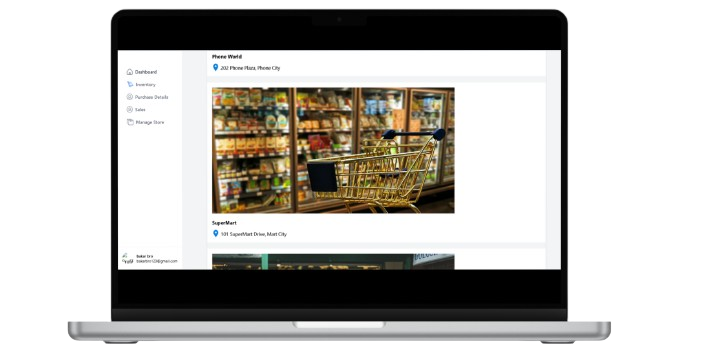
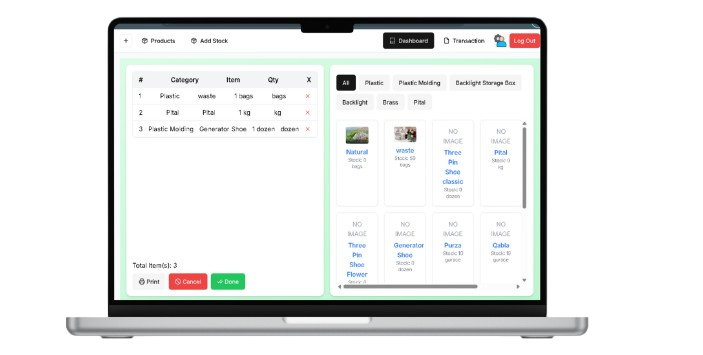
ok now

diff --git a/src/Components/ProjectBox.js b/src/Components/ProjectBox.js
@@ -1,9 +1,8 @@
 import React from 'react';
-import {FaGithub} from "react-icons/fa";
-import {CgFileDocument} from "react-icons/cg";
+import { FaGithub } from "react-icons/fa";
+import { CgFileDocument } from "react-icons/cg";
 
-
-const  ProjectBox = ({projectPhoto, projectName}) => {
+const ProjectBox = ({ projectPhoto, projectName }) => {
   const desc = {
     InventoryDesc: "A MERN-based inventory management system with JWT authentication. Features efficient product management and seamless deployment, hosted on Netlify for easiness.",
     InventoryGithub: "https://github.com/im-abubakar/Inventory-management-system",
@@ -13,36 +12,56 @@ const  ProjectBox = ({projectPhoto, projectName}) => {
     EzPartyGithub: "",
     EzPartyWebsite: "https://oneezparty.com/",
 
-    OneupDesc: "An AI-powered platform offering customized investment solutions. Ensures control, and smarter financial management for users seeking seamless, tailored investment opportunities.",
+    OneupDesc: "An AI-powered platform offering customized investment solutions. Ensures control, and smarter financial management for users seeking seamless investment opportunities.",
     OneupGithub: "",
     OneupWebsite: "https://oneuppp.netlify.app",
+
+    DigitalKhataDesc: "A React-based digital ledger with a Supabase backend, built for a local client to manage customer entries, item weights, costs, and balances — tailored for the Dhalai brass business.",
+    DigitalKhataGithub: "",
+    DigitalKhataWebsite: "https://khataa-appp.netlify.app",
+
+    PointOfSaleDesc: "A Next.js POS system with MongoDB backend for a local Dhalai brass business. Handles product entry, cost with labor, sales tracking, and inventory all in a smooth, responsive interface.",
+    PointOfSaleGithub: "",
+    PointOfSaleWebsite: "https://inventory-dhalai-update-jqeb.vercel.app",
+
+    ARFurnitureWebAppDesc: "A Next.js based AR web app for visualizing 3D furniture in real-world spaces. Built for interior design shopping with user login and immersive product previews.",
+    ARFurnitureWebAppGithub: "",
+    ARFurnitureWebAppWebsite: "https://ar-decoration-app.vercel.app",
+
+    EcommerceStoreDesc: "A full-stack eCommerce platform with Next.js frontend & Express.js backend. Includes product browsing, cart management, & checkout. Built scalability and smooth experience.",
+    EcommerceStoreGithub: "",
+    EcommerceStoreWebsite: "https://www.sastamal.store",
+
+    AnonymousMessageSenderDesc: "A simple web app that allows users to send anonymous text messages directly to an email inbox. No login required just type and send securely.",
+    AnonymousMessageSenderGithub: "",
+    AnonymousMessageSenderWebsite: "https://say-it-secretly.netlify.app/?fbclid=PAZXh0bgNhZW0CMTEAAaf3ko8tgBbOuKnYDs0u-KA1iiAfpiJziyLT1EbCvJ8pTt0odU9W2T9ikQX_RQ_aem_gqtkG7OFqrKx2lvtBNIt6Q",
   };
 
-  let show ='';
-  if(desc[projectName + 'Github']===""){
-    show="none";
-  }
-    
+  // Normalize project name by removing spaces
+  const keyPrefix = projectName.replace(/\s+/g, '');
+
+  const show = desc[keyPrefix + 'Github'] === "" ? "none" : "";
+
   return (
-    <div className='projectBox'> 
-        <img className='projectPhoto' src={projectPhoto} alt="Project display" /> 
-        <div>
-            <br />
-            <h3>{projectName}</h3>
-            <br />
-            {desc[projectName + 'Desc']}
-            <br />
+    <div className='projectBox'>
+      <img className='projectPhoto' src={projectPhoto} alt="Project display" />
+      <div>
+        <br />
+        <h3>{projectName}</h3>
+        <br />
+        {desc[keyPrefix + 'Desc']}
+        <br />
 
-            <a style={{display:show}} href={desc[projectName + 'Github']}>
-              <button className='projectbtn'><FaGithub/> Github</button>
-            </a>
+        <a style={{ display: show }} href={desc[keyPrefix + 'Github']}>
+          <button className='projectbtn'><FaGithub /> Github</button>
+        </a>
 
-            <a href={desc[projectName + 'Website']}>
-              <button className='projectbtn'><CgFileDocument/> Demo</button>
-            </a>
-        </div>
+        <a href={desc[keyPrefix + 'Website']}>
+          <button className='projectbtn'><CgFileDocument /> Demo</button>
+        </a>
+      </div>
     </div>
-  )
-}
+  );
+};
 
-export default  ProjectBox
+export default ProjectBox;

diff --git a/src/Components/Projects.js b/src/Components/Projects.js
@@ -2,8 +2,10 @@ import React from 'react';
 import ProjectBox from './ProjectBox';
 import OneezPartyImage from '../images/OneezPartyImage.png';
 import OneupImage from '../images/Oneup.png' 
-// import RogfreeImage from '../images/RogfreeImage.png';
-// import TindogImage from '../images/TindogImage.png';
+import FypImage from '../images/Fyp.png';
+import KhataImage from '../images/Khata_app.png';
+import ecommerceImage from '../images/ecommerce.png';
+import annonymousImage from '../images/annonymous.png';
 import InventoryImage from '../images/inventory.png';
 
 const Projects = () => {
@@ -11,11 +13,14 @@ const Projects = () => {
     <div>
       <h1 className='projectHeading'>My <b>Projects</b></h1>
       <div className='project'>
-        <ProjectBox projectPhoto={InventoryImage} projectName="Inventory" />
+        <ProjectBox projectPhoto={InventoryImage} projectName="Point Of Sale" />
         <ProjectBox projectPhoto={OneezPartyImage} projectName="EzParty" />
         <ProjectBox projectPhoto={OneupImage} projectName="Oneup" />
-        {/* <ProjectBox projectPhoto={InventoryImage} projectName="Inventory Management System" />
-        <ProjectBox projectPhoto={TindogImage} projectName="Tindog" /> */}
+        <ProjectBox projectPhoto={FypImage} projectName="AR Furniture Web App " />
+        <ProjectBox projectPhoto={KhataImage} projectName="Digital Khata" />
+        <ProjectBox projectPhoto={ecommerceImage} projectName="Ecommerce Store " />
+        <ProjectBox projectPhoto={annonymousImage} projectName="Anonymous Message Sender " />
+      
       </div>
 
     </div>

diff --git a/src/Components/Footer.js b/src/Components/Footer.js
@@ -11,7 +11,7 @@ const Footer = () => {
         <a href="https://github.com/im-abubakar" target='_blank' rel='noopener noreferrer'>
           <FaGithub />
         </a>
-        <a href="https://www.linkedin.com/in/abubaker-mughal-2820bb292/" target='_blank' rel='noopener noreferrer'>
+        <a href="https://www.linkedin.com/in/bakar-dev-sol/" target='_blank' rel='noopener noreferrer'>
           <FaLinkedin />
         </a>
         <a href="mailto:bakarbro123@gmail.com" target='_blank' rel='noopener noreferrer'>
